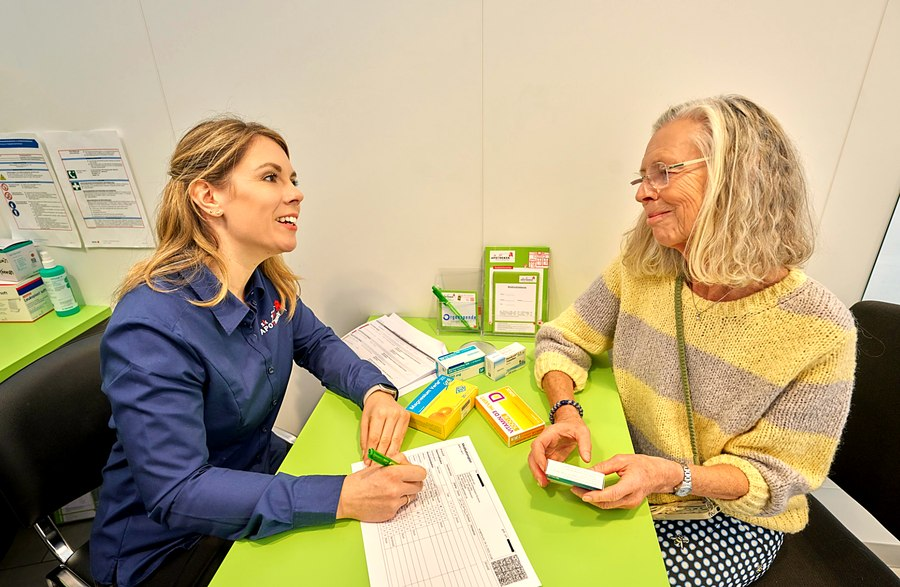
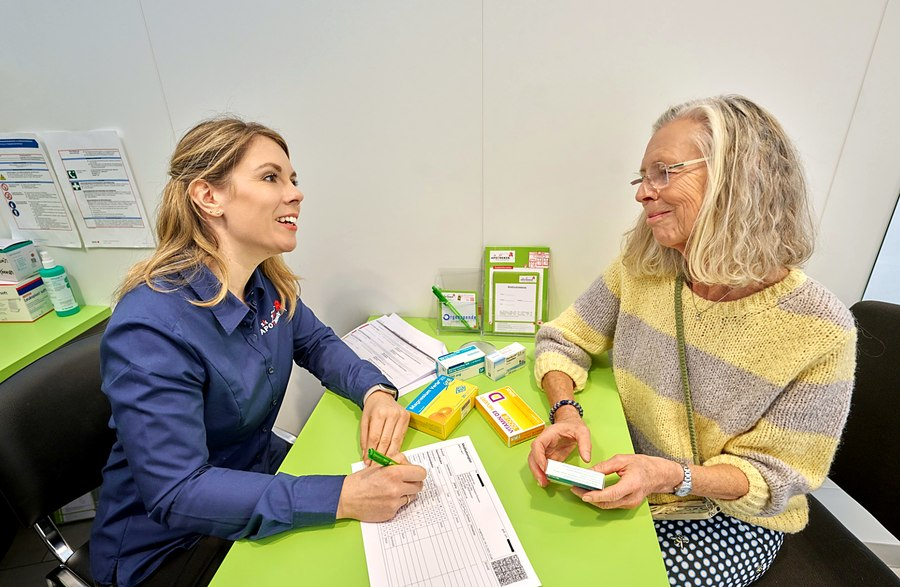
Replace problem-section illustration with real photo, fix hero face overlap and yellow color cast
- Problem section: swap hand-drawn person/thought-bubble illustration for a
  real Medikationsplan/blister photo with a clean list of questions below,
  matching the professional look used elsewhere on the page.
- Hero: shift hero-bg object-position left (toward the pharmacist) instead of
  centering, so the text card never sits over the customer's face at any
  viewport width, without clipping the trust list (reverted an earlier
  aspect-ratio approach that caused that clipping).
- Re-grade hero, vertrauen and zielgruppen photos with a neutral white
  balance (small blue boost instead of a red/warm boost, lower saturation)
  to remove the yellow cast from the previous grading.

Claude-Session: https://claude.ai/code/session_01XLhHeWYtKyT8mPMe2s9Kra

diff --git a/css/style.css b/css/style.css
@@ -251,7 +251,7 @@ img { max-width: 100%; display: block; }
 /* ---------- Hero ---------- */
 .hero {
   position: relative;
-  min-height: 640px;
+  min-height: 520px;
   display: flex;
   align-items: center;
   overflow: hidden;
@@ -262,7 +262,11 @@ img { max-width: 100%; display: block; }
   width: 100%;
   height: 100%;
   object-fit: cover;
-  object-position: center 22%;
+  /* Anchored left (toward the pharmacist) rather than centered: if the
+     section ever gets taller than it is wide relative to the photo and
+     object-fit:cover has to crop left/right, this keeps the crop away
+     from the patient's face on the right instead of zooming in on it. */
+  object-position: 15% 22%;
   z-index: 0;
 }
 .hero .container { position: relative; z-index: 1; padding-top: 56px; padding-bottom: 56px; }
@@ -311,52 +315,41 @@ img { max-width: 100%; display: block; }
 }
 
 .problem-visual {
-  position: relative;
-  background: var(--morgentau);
+  background: #fff;
   border-radius: var(--radius-l);
-  padding: 28px 24px;
-  min-height: 420px;
+  overflow: hidden;
+  box-shadow: var(--shadow-card);
 }
-.problem-person {
-  position: absolute;
-  left: 20px;
-  bottom: 0;
-  width: 42%;
-  min-width: 150px;
-  max-width: 210px;
-  height: auto;
+.problem-photo {
+  width: 100%;
+  aspect-ratio: 4 / 3;
+  object-fit: cover;
+  display: block;
 }
 .problem-thoughts {
-  position: absolute;
-  right: 20px;
-  bottom: 24px;
-  left: 46%;
   display: flex;
-  flex-direction: column-reverse;
-  align-items: flex-end;
-  gap: 12px;
+  flex-direction: column;
+  gap: 10px;
+  padding: 20px;
+  background: var(--morgentau);
 }
 .thought-bubble {
-  display: inline-flex;
+  display: flex;
   align-items: center;
-  gap: 8px;
+  gap: 10px;
   background: #fff;
   color: var(--heading);
   font-weight: 600;
-  font-size: .86rem;
-  padding: 10px 15px;
-  border-radius: 999px;
+  font-size: .92rem;
+  padding: 12px 16px;
+  border-radius: var(--radius-s);
   box-shadow: var(--shadow-card);
   opacity: 0;
-  transform: translateY(14px) scale(.94);
+  transform: translateY(10px);
   transition: opacity .5s ease, transform .5s ease;
-  transition-delay: calc(.2s + var(--d, 0) * 500ms);
+  transition-delay: calc(.15s + var(--d, 0) * 130ms);
 }
-.thought-bubble:nth-child(1) { margin-right: 0; }
-.thought-bubble:nth-child(2) { margin-right: 14px; }
-.thought-bubble:nth-child(3) { margin-right: 30px; }
-.thought-bubble:nth-child(4) { margin-right: 48px; }
-.problem-visual.is-visible .thought-bubble { opacity: 1; transform: translateY(0) scale(1); }
+.problem-visual.is-visible .thought-bubble { opacity: 1; transform: translateY(0); }
 
 @media (prefers-reduced-motion: reduce) {
   .thought-bubble {
@@ -664,10 +657,9 @@ img { max-width: 100%; display: block; }
 
 /* ---------- Responsive ---------- */
 @media (max-width: 980px) {
-  .hero { min-height: 520px; }
   .hero-copy { max-width: none; }
   .problem-hero { grid-template-columns: 1fr; }
-  .problem-visual { order: -1; max-width: 340px; margin: 0 auto; }
+  .problem-visual { order: -1; max-width: 460px; margin: 0 auto; }
   .leistung-grid { grid-template-columns: repeat(2, 1fr); }
   .zielgruppen-grid { grid-template-columns: 1fr; }
   .steps { grid-template-columns: repeat(2, 1fr); }

diff --git a/index.html b/index.html
@@ -116,24 +116,8 @@
           <p class="section-sub">Mehrere Erkrankungen, verschiedene Fachärzt:innen, mehrere Rezepte. Das sind Gedanken, die uns Patient:innen oft schildern – ganz normal, und genau dafür sind wir da.</p>
         </div>
 
-        <div class="problem-visual" aria-hidden="true">
-          <svg class="problem-person" viewBox="0 0 220 250" role="img" aria-label="Eine ältere Person schaut nachdenklich und fragend">
-            <circle cx="110" cy="320" r="150" fill="#C7DF7D"/>
-            <circle cx="106" cy="132" r="56" fill="#F1C6A0"/>
-            <path d="M52,124c-6-44,25-75,56-75s60,31,54,75c-14-12-29-19-54-19s-42,7-56,19Z" fill="#DADDD4"/>
-            <path d="M76,110q9-9,19-6" stroke="#4A4C48" stroke-width="3" fill="none" stroke-linecap="round"/>
-            <path d="M115,105q10-4,19,2" stroke="#4A4C48" stroke-width="3" fill="none" stroke-linecap="round"/>
-            <circle cx="88" cy="131" r="15" fill="none" stroke="#4A4C48" stroke-width="3"/>
-            <circle cx="126" cy="131" r="15" fill="none" stroke="#4A4C48" stroke-width="3"/>
-            <path d="M103,131h8" stroke="#4A4C48" stroke-width="3"/>
-            <circle cx="92" cy="126" r="3" fill="#4A4C48"/>
-            <circle cx="130" cy="126" r="3" fill="#4A4C48"/>
-            <path d="M92,159q13,7,26-1" stroke="#4A4C48" stroke-width="3" fill="none" stroke-linecap="round"/>
-            <path d="M148,168c15-3,26,6,27,18c1,11-8,19-18,18c-9-1-15-8-17-16" fill="#F1C6A0"/>
-            <circle cx="168" cy="98" r="4" fill="#A2C617"/>
-            <circle cx="180" cy="112" r="3" fill="#C7DF7D"/>
-          </svg>
-
+        <div class="problem-visual">
+          <img class="problem-photo" src="assets/img/problem-photo.jpg" alt="Medikationsplan mit mehreren Tablettenblistern">
           <div class="problem-thoughts">
             <div class="thought-bubble" style="--d:0"><img class="icon-scribble icon-scribble-sm" src="assets/img/icons/tablettendose.svg" alt="">Verträgt sich das eigentlich alles?</div>
             <div class="thought-bubble" style="--d:1"><img class="icon-scribble icon-scribble-sm" src="assets/img/icons/tablettenblister.svg" alt="">Wurde etwas doppelt verordnet?</div>
